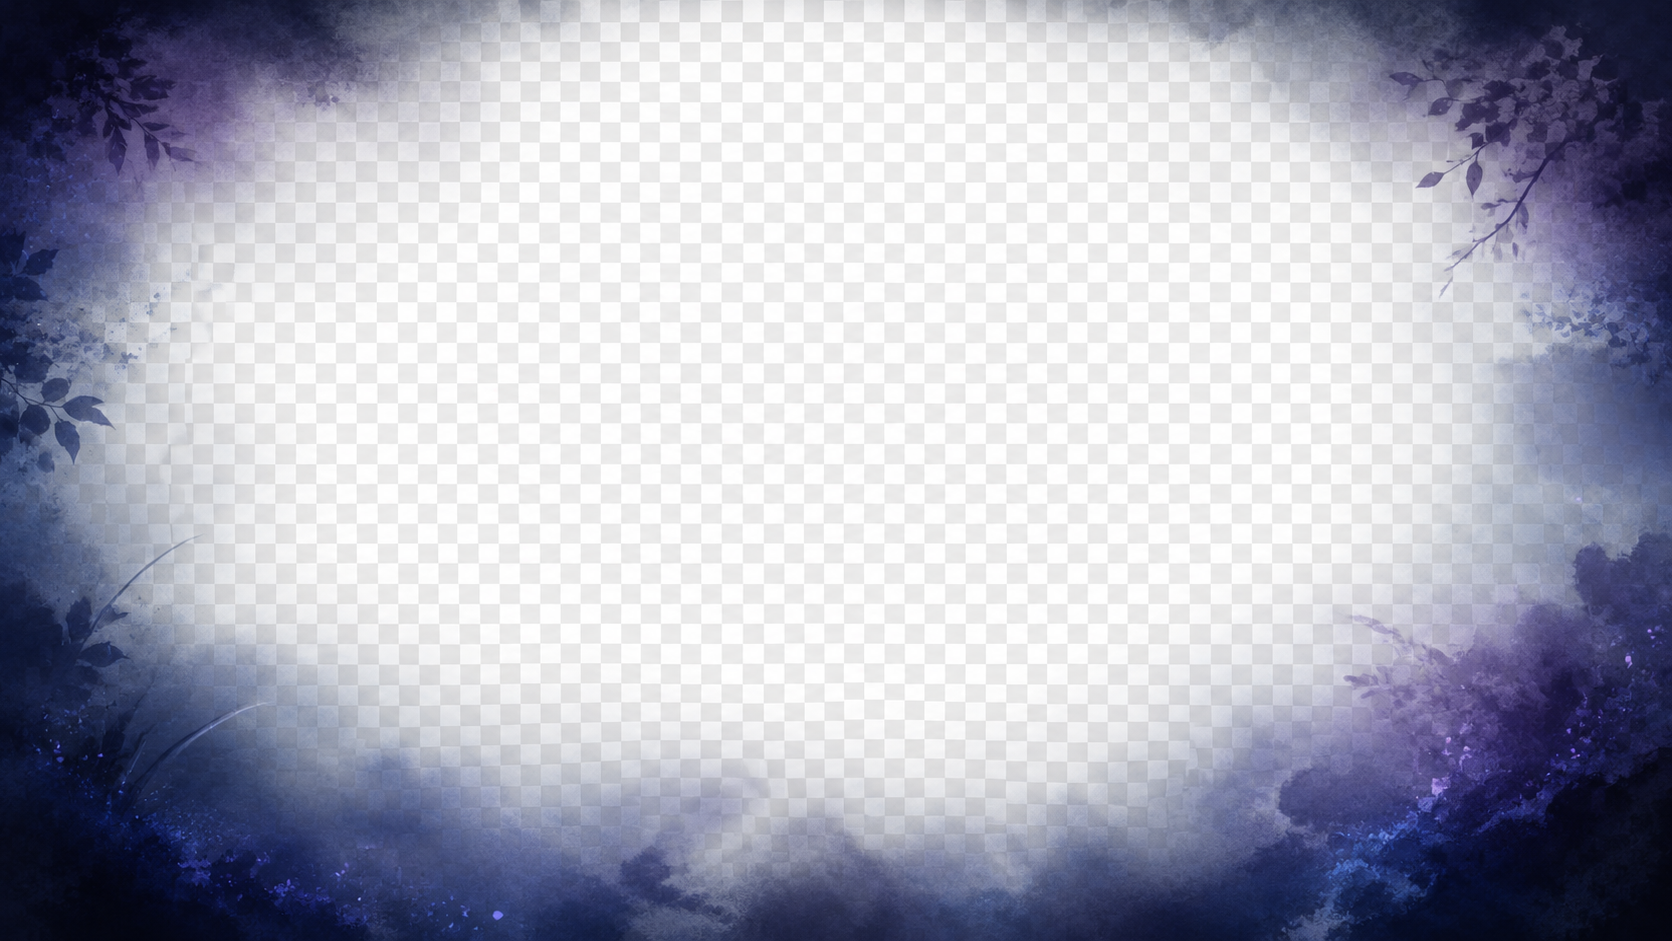
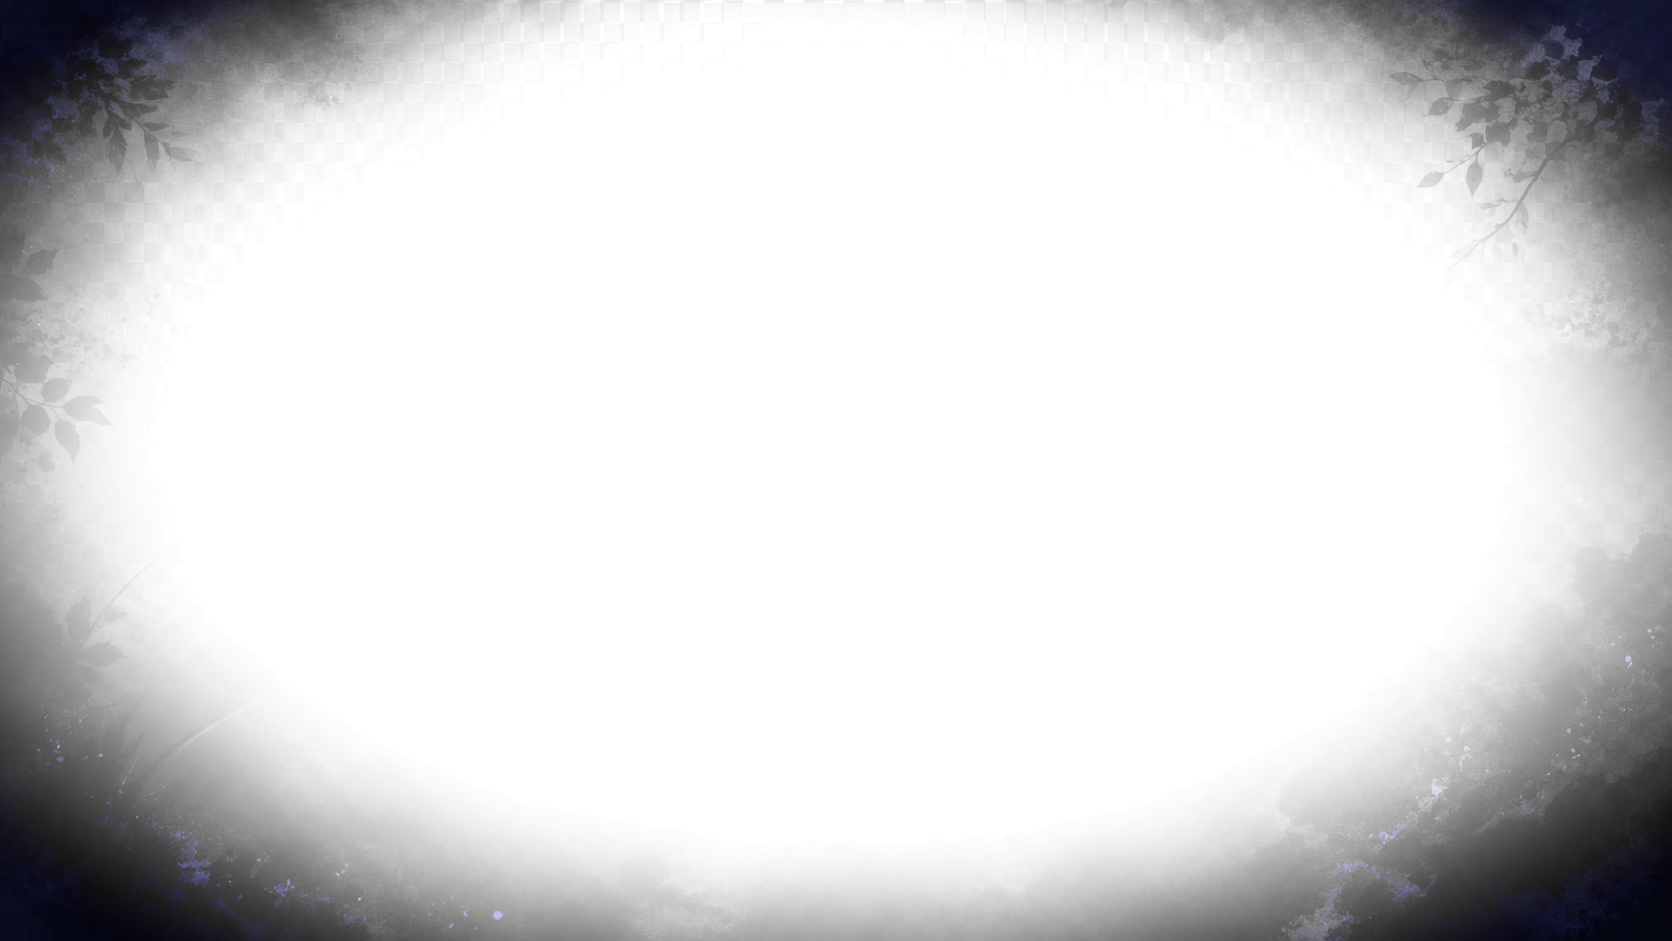
update image
update image scene

diff --git a/assets/css/story-stage-1-1.css b/assets/css/story-stage-1-1.css
@@ -648,10 +648,10 @@ a {
   position: absolute;
   z-index: 4;
   width: clamp(86px, 10vw, 142px);
-  aspect-ratio: 1.18;
+  aspect-ratio: 1;
   display: grid;
   place-items: center;
-  padding: 0.8rem;
+  padding: 0.74rem;
   pointer-events: none;
   background-image: url("../images/effect/retro-empty-comic-bubbles-halftone_TRUE_ALPHA.png");
   background-repeat: no-repeat;
@@ -668,6 +668,10 @@ a {
 .story-emotion-bubble.is-active {
   visibility: visible;
   animation: storyEmotionBubblePop 900ms cubic-bezier(.16, .9, .26, 1) both;
+}
+
+.story-emotion-bubble.is-active .story-emotion-glyph {
+  animation: storyEmotionGlyphPulse 820ms cubic-bezier(.18, .82, .24, 1) both;
 }
 
 .story-emotion-bubble[data-character="mira"] {
@@ -691,8 +695,8 @@ a {
 .story-emotion-bubble[data-shape="angled"] { background-position: 0 100%; }
 .story-emotion-bubble[data-shape="smallRound"] { background-position: 33.333% 100%; }
 .story-emotion-bubble[data-shape="long"] {
-  width: clamp(112px, 14vw, 182px);
-  aspect-ratio: 1.72;
+  width: clamp(94px, 11vw, 154px);
+  aspect-ratio: 1;
   background-position: 66.667% 100%;
 }
 .story-emotion-bubble[data-shape="impact"] { background-position: 100% 100%; }
@@ -708,6 +712,9 @@ a {
   font-weight: 900;
   line-height: 1;
   text-align: center;
+  transform: scale(1);
+  transform-origin: center;
+  will-change: transform;
   text-shadow:
     0 1px 0 rgba(255, 255, 255, 0.86),
     0 0 8px rgba(255, 231, 168, 0.65);
@@ -1662,6 +1669,24 @@ a {
   100% {
     opacity: 1;
     transform: translate3d(0, 0, 0) scale(1) rotate(0deg);
+  }
+}
+
+@keyframes storyEmotionGlyphPulse {
+  0% {
+    transform: scale(0.46);
+  }
+  24% {
+    transform: scale(1.34);
+  }
+  46% {
+    transform: scale(0.92);
+  }
+  68% {
+    transform: scale(1.1);
+  }
+  100% {
+    transform: scale(1);
   }
 }
 

diff --git a/assets/js/story-root-gate.js b/assets/js/story-root-gate.js
@@ -48,18 +48,17 @@
   };
   const emotionBubbleSource = "assets/images/effect/retro-empty-comic-bubbles-halftone_TRUE_ALPHA.png";
   const emotionBubblePresets = {
-    happy: { glyph: "😄", shape: "round", tone: "happy" },
-    proud: { glyph: "⭐", shape: "long", tone: "proud" },
-    magic: { glyph: "✨", shape: "cloud", tone: "magic" },
-    idea: { glyph: "💡", shape: "square", tone: "magic" },
+    happy: { glyph: "\u203C", shape: "round", tone: "happy" },
+    proud: { glyph: "\u2726", shape: "long", tone: "proud" },
+    magic: { glyph: "\u2726", shape: "cloud", tone: "magic" },
+    idea: { glyph: "!", shape: "square", tone: "magic" },
     confused: { glyph: "?", shape: "thought", tone: "confused" },
-    worried: { glyph: "😟", shape: "thought", tone: "worried" },
-    frustrated: { glyph: "😣", shape: "jagged", tone: "worried" },
-    angry: { glyph: "💢", shape: "burst", tone: "angry" },
-    surprised: { glyph: "!?", shape: "impact", tone: "surprised" },
-    embarrassed: { glyph: "…", shape: "smallRound", tone: "worried" }
+    worried: { glyph: "...", shape: "thought", tone: "worried" },
+    frustrated: { glyph: "!!", shape: "jagged", tone: "worried" },
+    angry: { glyph: "\u{1F4A2}", shape: "burst", tone: "angry" },
+    surprised: { glyph: "\u2049", shape: "impact", tone: "surprised" },
+    embarrassed: { glyph: "...", shape: "smallRound", tone: "worried" }
   };
-
   const backgrounds = {
     cabin: `${bgBase}story-bg-Shellwick_cabin.png`,
     cabinInside: `${bgBase}story-bg-Shellwick_cabin_inside.png`,
@@ -2351,7 +2350,7 @@
   }
 
   function normalizeEmotionBubble(frame) {
-    const emotion = frame?.emotion || frame?.moodBubble || frame?.emojiBubble;
+    const emotion = frame?.emotion || frame?.moodBubble || frame?.symbolBubble;
     if (!emotion) return null;
 
     if (typeof emotion === "string") {
@@ -2367,7 +2366,7 @@
 
     const key = String(emotion.key || emotion.type || emotion.mood || "").trim();
     const preset = emotionBubblePresets[key] || {};
-    const glyph = String(emotion.glyph || emotion.emoji || emotion.text || preset.glyph || "").trim();
+    const glyph = String(emotion.glyph || emotion.mark || emotion.text || preset.glyph || "").trim();
     if (!glyph) return null;
 
     return {

diff --git a/assets/js/story-stage-1-1.js b/assets/js/story-stage-1-1.js
@@ -49,18 +49,17 @@
   };
   const emotionBubbleSource = "assets/images/effect/retro-empty-comic-bubbles-halftone_TRUE_ALPHA.png";
   const emotionBubblePresets = {
-    happy: { glyph: "😄", shape: "round", tone: "happy" },
-    proud: { glyph: "⭐", shape: "long", tone: "proud" },
-    magic: { glyph: "✨", shape: "cloud", tone: "magic" },
-    idea: { glyph: "💡", shape: "square", tone: "magic" },
+    happy: { glyph: "\u203C", shape: "round", tone: "happy" },
+    proud: { glyph: "\u2726", shape: "long", tone: "proud" },
+    magic: { glyph: "\u2726", shape: "cloud", tone: "magic" },
+    idea: { glyph: "!", shape: "square", tone: "magic" },
     confused: { glyph: "?", shape: "thought", tone: "confused" },
-    worried: { glyph: "😟", shape: "thought", tone: "worried" },
-    frustrated: { glyph: "😣", shape: "jagged", tone: "worried" },
-    angry: { glyph: "💢", shape: "burst", tone: "angry" },
-    surprised: { glyph: "!?", shape: "impact", tone: "surprised" },
-    embarrassed: { glyph: "…", shape: "smallRound", tone: "worried" }
+    worried: { glyph: "...", shape: "thought", tone: "worried" },
+    frustrated: { glyph: "!!", shape: "jagged", tone: "worried" },
+    angry: { glyph: "\u{1F4A2}", shape: "burst", tone: "angry" },
+    surprised: { glyph: "\u2049", shape: "impact", tone: "surprised" },
+    embarrassed: { glyph: "...", shape: "smallRound", tone: "worried" }
   };
-
   const backgrounds = {
     arrival: `${bgBase}story-bg-s01-arrival.png`,
     welcome: `${bgBase}story-bg-cipher_ridge.png`,
@@ -2041,7 +2040,7 @@
   }
 
   function normalizeEmotionBubble(frame) {
-    const emotion = frame?.emotion || frame?.moodBubble || frame?.emojiBubble;
+    const emotion = frame?.emotion || frame?.moodBubble || frame?.symbolBubble;
     if (!emotion) return null;
 
     if (typeof emotion === "string") {
@@ -2057,7 +2056,7 @@
 
     const key = String(emotion.key || emotion.type || emotion.mood || "").trim();
     const preset = emotionBubblePresets[key] || {};
-    const glyph = String(emotion.glyph || emotion.emoji || emotion.text || preset.glyph || "").trim();
+    const glyph = String(emotion.glyph || emotion.mark || emotion.text || preset.glyph || "").trim();
     if (!glyph) return null;
 
     return {

diff --git a/assets/js/prologue.js b/assets/js/prologue.js
@@ -21,8 +21,8 @@
   const NEXT_SCENE_PREFETCH = [
     STORY_STAGE_URL,
     STORY_STAGE_SKIP_URL,
-    "assets/css/story-stage-1-1.css?v=20260630-emotion-bubbles",
-    "assets/js/story-stage-1-1.js?v=20260630-emotion-bubbles",
+    "assets/css/story-stage-1-1.css?v=20260630-bubble-crop",
+    "assets/js/story-stage-1-1.js?v=20260630-bubble-crop",
     "assets/images/bg-scene/Stage-1-1/story-bg-s01-arrival.png",
     "assets/images/bg-scene/Stage-1-1/story-bg-cipher_ridge.png",
     "assets/images/Mira-sprite/Mira-sprite-alpha-png/mira-holding-hat.png",

diff --git a/story-chapter-2-ending.html b/story-chapter-2-ending.html
@@ -30,7 +30,7 @@
   <link rel="preload" as="image" href="assets/images/relic/primewood_seed_relic_true_alpha.png" />
   <link rel="preload" as="image" href="assets/images/relic/fraction_loom_relic_true_alpha.png" />
   <link rel="preload" as="image" href="assets/images/relic/power_tally_relic_true_alpha.png" />
-  <link rel="stylesheet" href="assets/css/story-stage-1-1.css?v=20260630-emotion-bubbles" />
+  <link rel="stylesheet" href="assets/css/story-stage-1-1.css?v=20260630-bubble-crop" />
   <link rel="stylesheet" href="assets/css/story-root-gate.css?v=20260620-primewood-relic-board" />
 </head>
 <body data-story-mode="chapter2-ending">
@@ -115,6 +115,6 @@
     <span>This ending scene is designed for a wide game view.</span>
   </aside>
 
-  <script src="assets/js/story-root-gate.js?v=20260630-emotion-bubbles"></script>
+  <script src="assets/js/story-root-gate.js?v=20260630-bubble-crop"></script>
 </body>
 </html>

diff --git a/story-chapter-2-test-setup.html b/story-chapter-2-test-setup.html
@@ -29,7 +29,7 @@
   <link rel="preload" as="image" href="assets/images/relic/primewood_seed_relic_true_alpha.png" />
   <link rel="preload" as="image" href="assets/images/relic/fraction_loom_relic_true_alpha.png" />
   <link rel="preload" as="image" href="assets/images/relic/power_tally_relic_true_alpha.png" />
-  <link rel="stylesheet" href="assets/css/story-stage-1-1.css?v=20260630-emotion-bubbles" />
+  <link rel="stylesheet" href="assets/css/story-stage-1-1.css?v=20260630-bubble-crop" />
   <link rel="stylesheet" href="assets/css/story-root-gate.css?v=20260620-primewood-relic-board" />
 </head>
 <body data-story-mode="chapter2-test-setup">
@@ -114,6 +114,6 @@
     <span>This setup scene is designed for a wide game view.</span>
   </aside>
 
-  <script src="assets/js/story-root-gate.js?v=20260630-emotion-bubbles"></script>
+  <script src="assets/js/story-root-gate.js?v=20260630-bubble-crop"></script>
 </body>
 </html>

diff --git a/story-chapter-2.html b/story-chapter-2.html
@@ -36,7 +36,7 @@
   <link rel="preload" as="image" href="assets/images/relic/primewood_seed_relic_true_alpha.png?v=20260610-primewood-refresh" />
   <link rel="preload" as="image" href="assets/images/relic/fraction_loom_relic_true_alpha.png?v=20260610-fraction-loom-refresh" />
   <link rel="preload" as="image" href="assets/images/relic/power_tally_relic_true_alpha.png?v=20260610-power-tally-refresh" />
-  <link rel="stylesheet" href="assets/css/story-stage-1-1.css?v=20260630-emotion-bubbles" />
+  <link rel="stylesheet" href="assets/css/story-stage-1-1.css?v=20260630-bubble-crop" />
   <link rel="stylesheet" href="assets/css/story-root-gate.css?v=20260620-primewood-relic-board" />
 </head>
 <body data-story-mode="chapter2">
@@ -121,6 +121,6 @@
     <span>This opening scene is designed for a wide game view.</span>
   </aside>
 
-  <script src="assets/js/story-root-gate.js?v=20260630-emotion-bubbles"></script>
+  <script src="assets/js/story-root-gate.js?v=20260630-bubble-crop"></script>
 </body>
 </html>

diff --git a/story-root-gate-result.html b/story-root-gate-result.html
@@ -25,7 +25,7 @@
   <link rel="preload" as="image" type="image/png" href="assets/images/Shellwick-sprite/Elder%20standing-no%20desk.png" />
   <link rel="preload" as="image" type="image/png" href="assets/images/Shellwick-sprite/Elder%20amused%20%20gentle%20no.png" />
   <link rel="preload" as="audio" type="audio/mpeg" href="voice/sound/funny-pipe-effect.mp3" />
-  <link rel="stylesheet" href="assets/css/story-stage-1-1.css?v=20260630-emotion-bubbles" />
+  <link rel="stylesheet" href="assets/css/story-stage-1-1.css?v=20260630-bubble-crop" />
   <link rel="stylesheet" href="assets/css/story-root-gate.css?v=20260620-primewood-relic-board" />
 </head>
 <body data-story-mode="result">
@@ -89,6 +89,6 @@
     <span>This result scene is designed for a wide game view.</span>
   </aside>
 
-  <script src="assets/js/story-root-gate.js?v=20260630-emotion-bubbles"></script>
+  <script src="assets/js/story-root-gate.js?v=20260630-bubble-crop"></script>
 </body>
 </html>

diff --git a/story-root-gate.html b/story-root-gate.html
@@ -37,7 +37,7 @@
   <link rel="preload" as="image" href="assets/images/relic/parity_prism_true_alpha.png" />
   <link rel="preload" as="image" href="assets/images/relic/factor_forge_alpha.png" />
   <link rel="preload" as="audio" type="audio/mpeg" href="voice/sound/funny-pipe-effect.mp3" />
-  <link rel="stylesheet" href="assets/css/story-stage-1-1.css?v=20260630-emotion-bubbles" />
+  <link rel="stylesheet" href="assets/css/story-stage-1-1.css?v=20260630-bubble-crop" />
   <link rel="stylesheet" href="assets/css/story-root-gate.css?v=20260620-primewood-relic-board" />
 </head>
 <body data-story-mode="intro">
@@ -122,6 +122,6 @@
     <span>This finale is designed for a wide game view.</span>
   </aside>
 
-  <script src="assets/js/story-root-gate.js?v=20260630-emotion-bubbles"></script>
+  <script src="assets/js/story-root-gate.js?v=20260630-bubble-crop"></script>
 </body>
 </html>

diff --git a/story-stage-1-1.html b/story-stage-1-1.html
@@ -47,7 +47,7 @@
   <link rel="preload" as="image" href="assets/images/relic/sign_compass_relic_alpha.png" />
   <link rel="preload" as="image" href="assets/images/relic/parity_prism_true_alpha.png" />
   <link rel="preload" as="image" href="assets/images/relic/factor_forge_alpha.png" />
-  <link rel="stylesheet" href="assets/css/story-stage-1-1.css?v=20260630-emotion-bubbles" />
+  <link rel="stylesheet" href="assets/css/story-stage-1-1.css?v=20260630-bubble-crop" />
 </head>
 <body>
   <div class="story-progress" aria-hidden="true">
@@ -149,6 +149,6 @@
     <span>Unlock Portrait Orientation Lock, then turn sideways. If this phone cannot rotate, use Skip.</span>
   </aside>
 
-  <script src="assets/js/story-stage-1-1.js?v=20260630-emotion-bubbles"></script>
+  <script src="assets/js/story-stage-1-1.js?v=20260630-bubble-crop"></script>
 </body>
 </html>

diff --git a/prologue.html b/prologue.html
@@ -76,6 +76,6 @@
     </nav>
   </main>
 
-  <script src="assets/js/prologue.js?v=20260630-emotion-bubbles"></script>
+  <script src="assets/js/prologue.js?v=20260630-bubble-crop"></script>
 </body>
 </html>